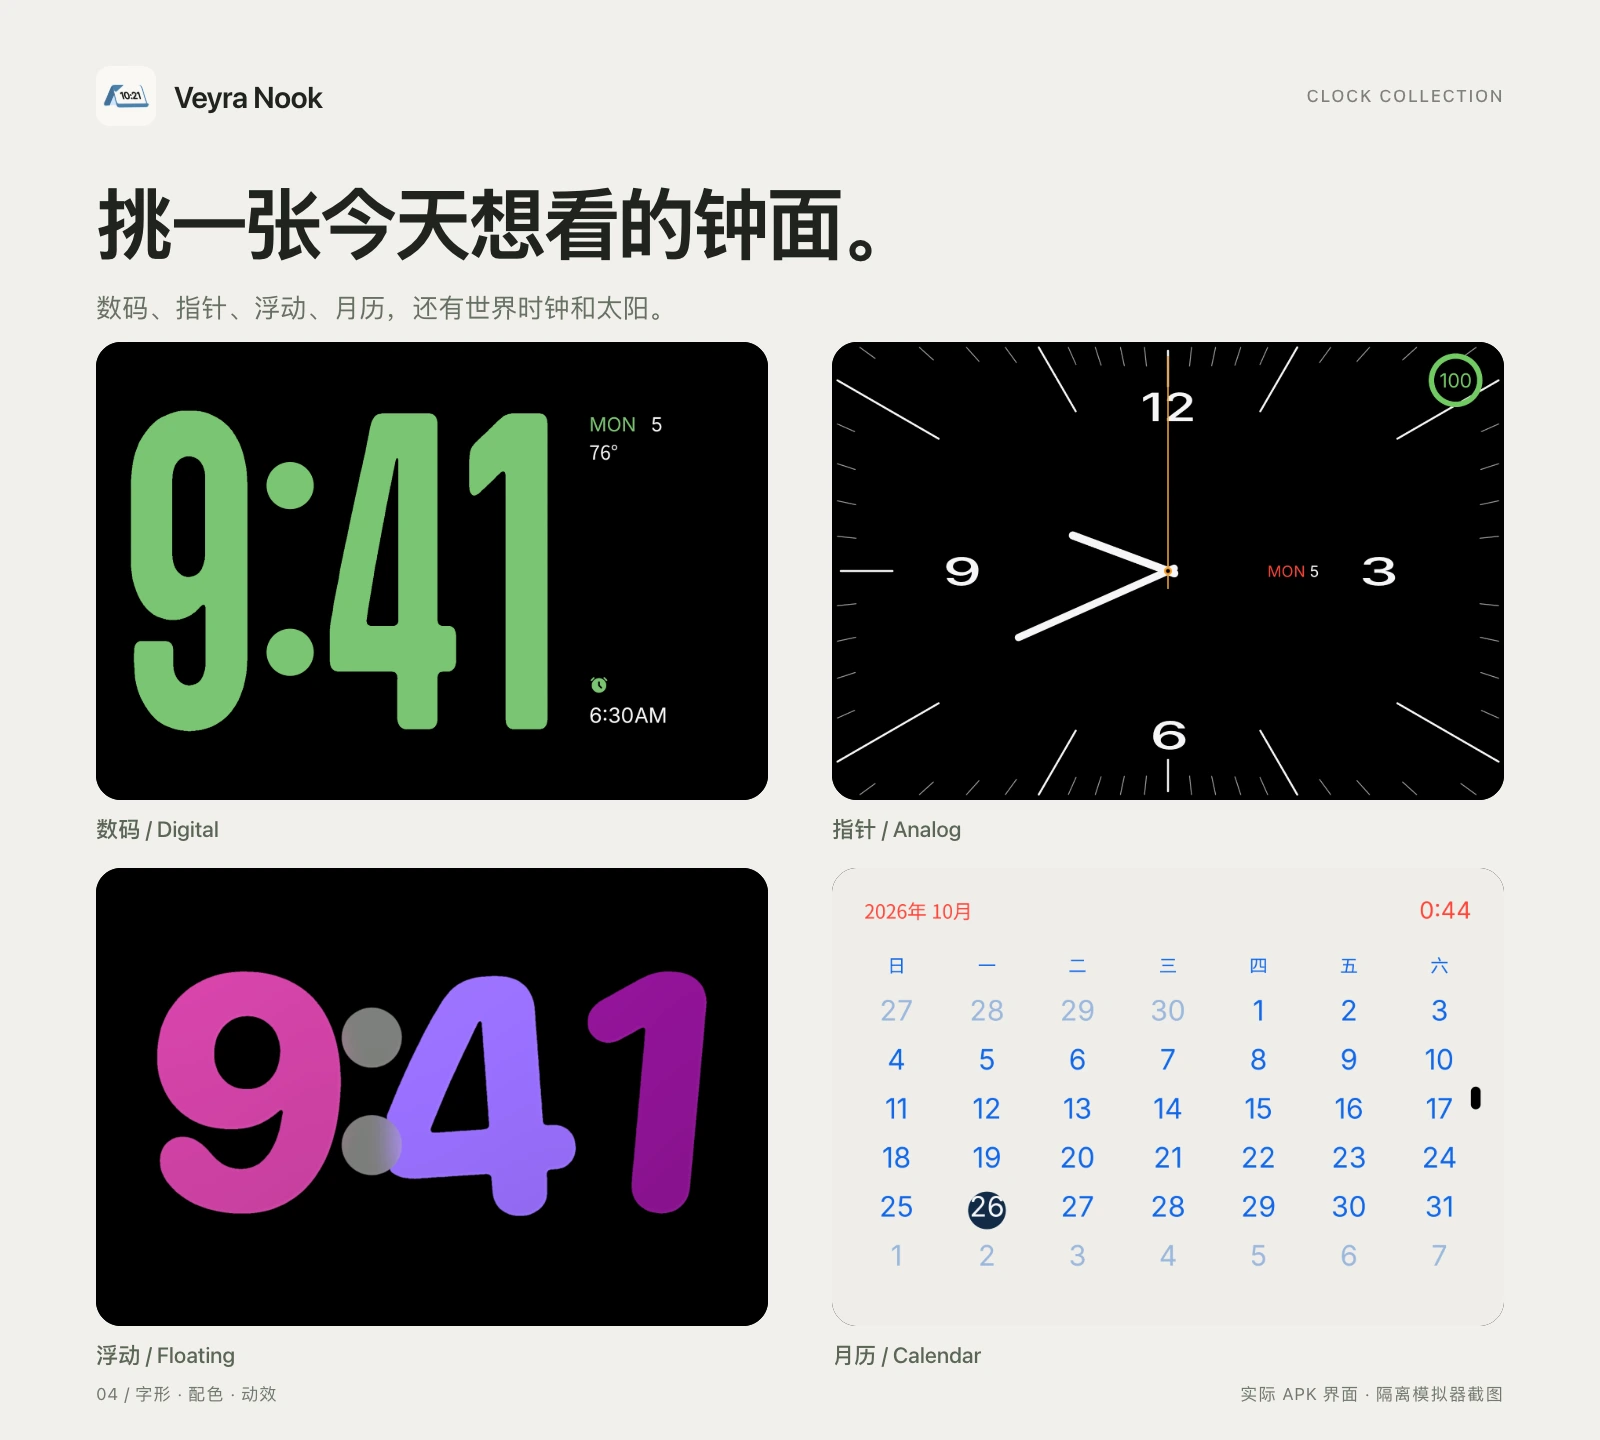
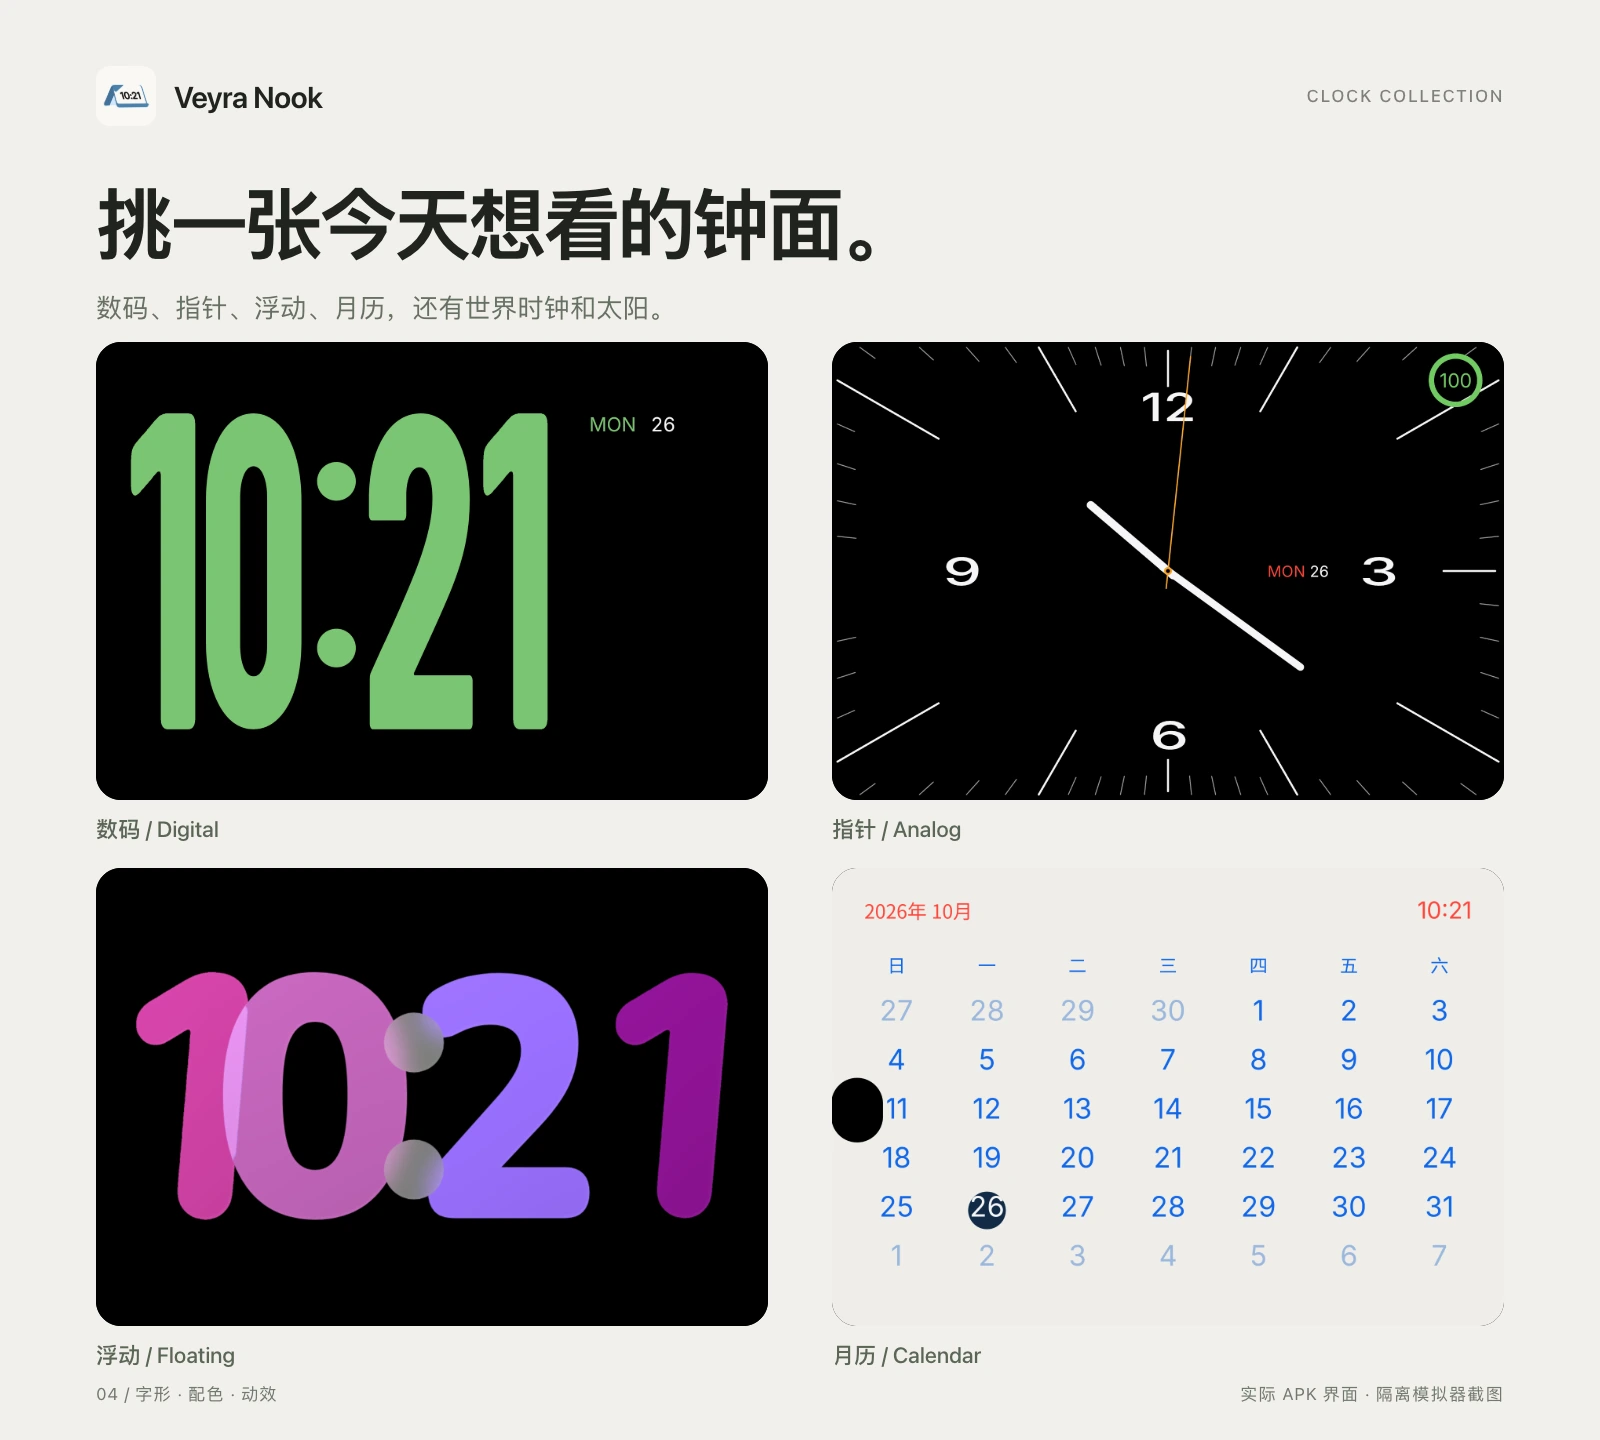
docs: add English showcase posters and unify clocks at 10:21

diff --git a/README.en.md b/README.en.md
@@ -4,7 +4,7 @@
 
 [简体中文](README.md) · English · [Downloads & release notes](https://github.com/AEMONET-Dev/VeyraNook/releases) · [Report an issue](https://github.com/AEMONET-Dev/VeyraNook/issues)
 
-![Veyra Nook running on a real foldable in tent mode](docs/images/01-tent.webp)
+![Veyra Nook running on a real foldable in tent mode](docs/images/en/01-tent.webp)
 
 Nook is an Android foldable StandBy app **developed by AEMONET**. Fold your phone into a tent and place it on a desk or bedside table. The cover display shows a clock, photos, widgets or Now Playing, while the inner display provides adjustable ambient light.
 
@@ -30,30 +30,30 @@ Available media actions depend on the player. Output selection opens Android's s
 
 <table>
 <tr>
-<td width="50%"><img src="docs/images/02-photo.webp" alt="Real-device photo StandBy with green inner light"></td>
-<td width="50%"><img src="docs/images/03-world.webp" alt="Real-device world clock"></td>
+<td width="50%"><img src="docs/images/en/02-photo.webp" alt="Real-device photo StandBy with green inner light"></td>
+<td width="50%"><img src="docs/images/en/03-world.webp" alt="Real-device world clock"></td>
 </tr>
 </table>
 
-All three device photos were supplied by the user. Photo StandBy uses images you explicitly choose; the world clock lets you choose a city and time zone.
+All three device photos were supplied by the user; their display times have been edited to **10:21**, matching the app icon. Photo StandBy uses images you explicitly choose; the world clock lets you choose a city and time zone.
 
-![Digital, analog, floating and calendar views captured from the APK](docs/images/04-faces.webp)
+![Digital, analog, floating and calendar views captured from the APK](docs/images/en/04-faces.webp)
 
 Edit appearance and light directly from the clock. Large digits support animated changes and gentle floating; widgets can be reordered by dragging. A camera-hole guide lets you mark the physical cutout and hide only nearby overlapping content, preserving the overall clock size and position.
 
 ## Music and light
 
-![Now Playing with artwork, progress, playback, volume and output controls](docs/images/05-media.webp)
+![Now Playing with artwork, progress, playback, volume and output controls](docs/images/en/05-media.webp)
 
 Nook connects to your active player's media session. There is no need to import songs, and opening Now Playing does not start playback. Collapse it to return to your previous StandBy page.
 
 **Audio rhythm analyzes system playback, not the microphone.** Only instantaneous volume intensity is analyzed; recordings are not saved. Some players, protected content and operating systems restrict capture, so rhythm response is not guaranteed for every source.
 
-![In-clock appearance editor and breathing-light settings](docs/images/06-custom.webp)
+![In-clock appearance editor and breathing-light settings](docs/images/en/06-custom.webp)
 
 The inner display forms a continuous perimeter halo that fades smoothly to black in the center. Battery mode uses colors for charge ranges. A full battery gets slow breathing; recognized fast charging below full uses an inward-moving, fading halo. Fast-charge detection depends on the device's reported state and cannot identify every charging protocol.
 
-> Clock, media and editor posters use actual APK screenshots captured on an isolated emulator. The media track and artwork are demo assets. They are interface captures, not concept UI renders.
+> Clock, media and editor posters use actual APK screenshots captured on an isolated emulator. The media track and artwork are demo assets. They are interface captures, not concept UI renders. Clock captures use 10:21; the English editor poster uses the real compact-text setting (70%).
 
 ## Getting started
 
